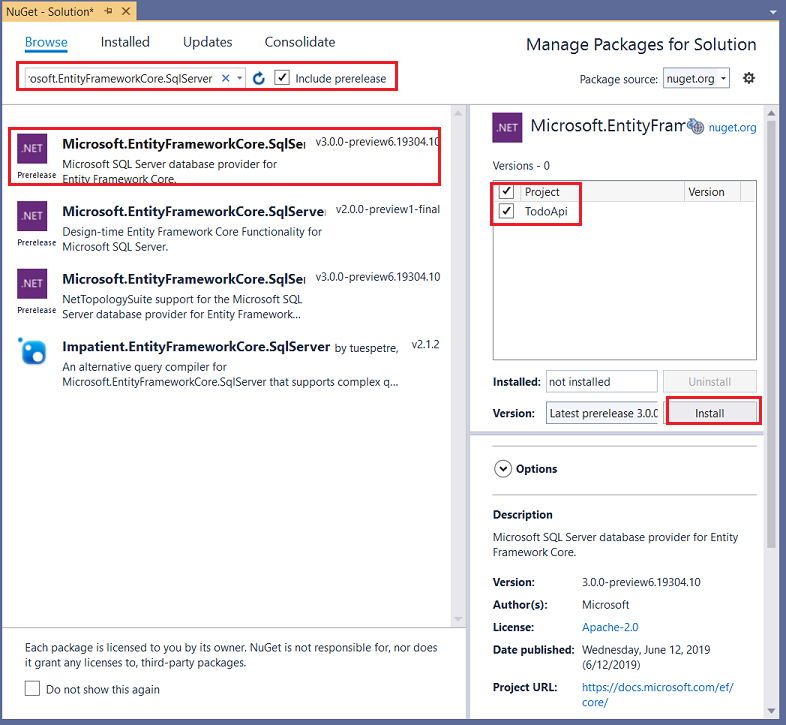
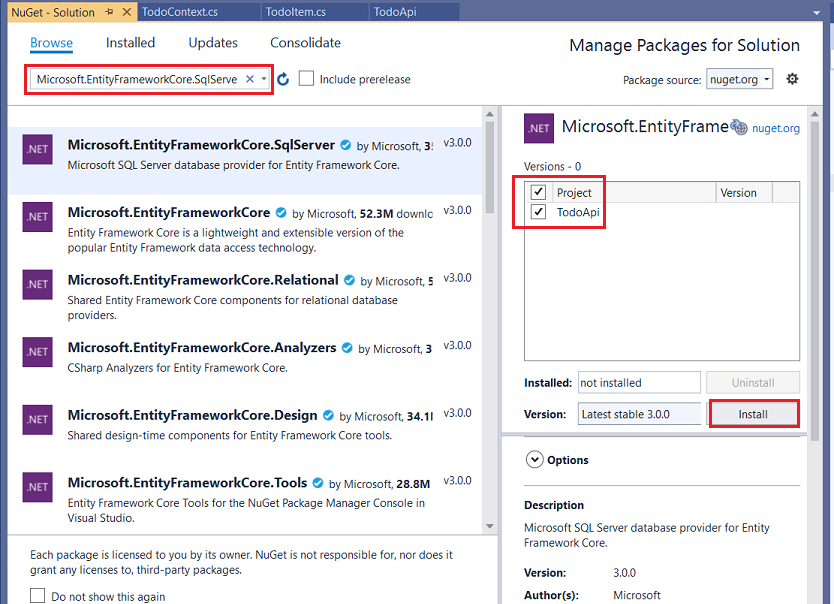
Remove/pre release/ra (#14617)
* remove prerelease

* remove prerelease from Web API intro

* remove prerelease from Web API intro

Changed region(s): [[0.0, 0.0, 1.0, 1.0]]

diff --git a/aspnetcore/tutorials/first-web-api.md b/aspnetcore/tutorials/first-web-api.md
@@ -66,7 +66,7 @@ The following diagram shows the design of the app.
 * From the **File** menu, select **New** > **Project**.
 * Select the **ASP.NET Core Web Application** template and click **Next**.
 * Name the project *TodoApi* and click **Create**.
-* In the **Create a new ASP.NET Core Web Application** dialog, confirm that **.NET Core** and **ASP.NET Core 3.0** are selected. Select the **API** template and click **Create**. **Don't** select **Enable Docker Support**.
+* In the **Create a new ASP.NET Core Web Application** dialog, confirm that **.NET Core** and **ASP.NET Core 3.0** are selected. Select the **API** template and click **Create**.
 
 ![VS new project dialog](first-web-api/_static/vs3.png)
 
@@ -222,9 +222,8 @@ The *database context* is the main class that coordinates Entity Framework funct
 ### Add Microsoft.EntityFrameworkCore.SqlServer
 
 * From the **Tools** menu, select **NuGet Package Manager > Manage NuGet Packages for Solution**.
-* Select the **Include prerelease** checkbox.
 * Select the **Browse** tab, and then enter **Microsoft.EntityFrameworkCore.SqlServer** in the search box.
-* Select  **Microsoft.EntityFrameworkCore.SqlServer V3.0.0-preview** in the left pane.
+* Select  **Microsoft.EntityFrameworkCore.SqlServer** in the left pane.
 * Select the **Project** check box in the right pane and then select **Install**.
 * Use the preceding instructions to add the `Microsoft.EntityFrameworkCore.InMemory` NuGet package.
 
